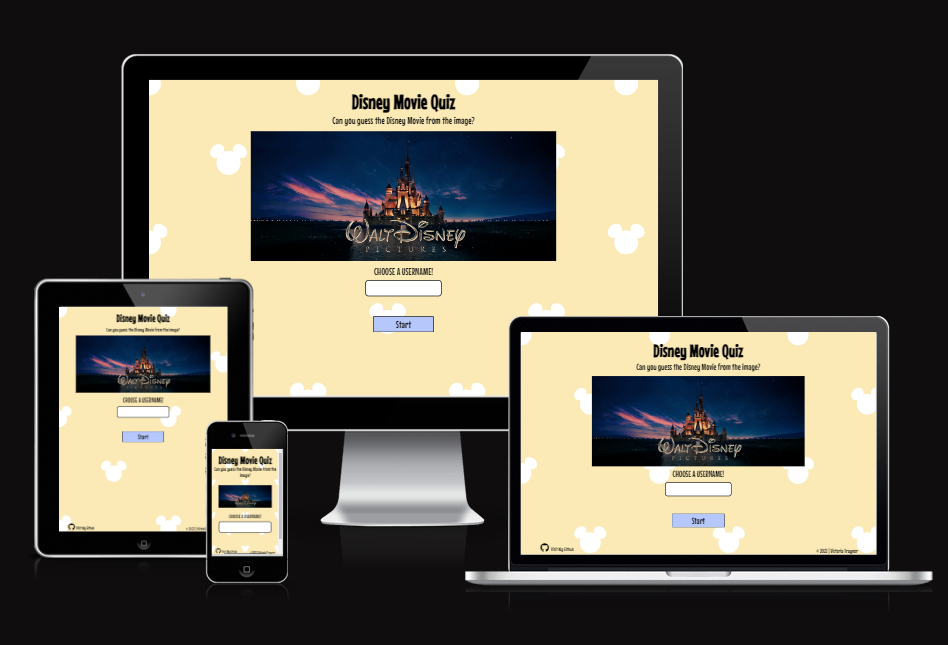
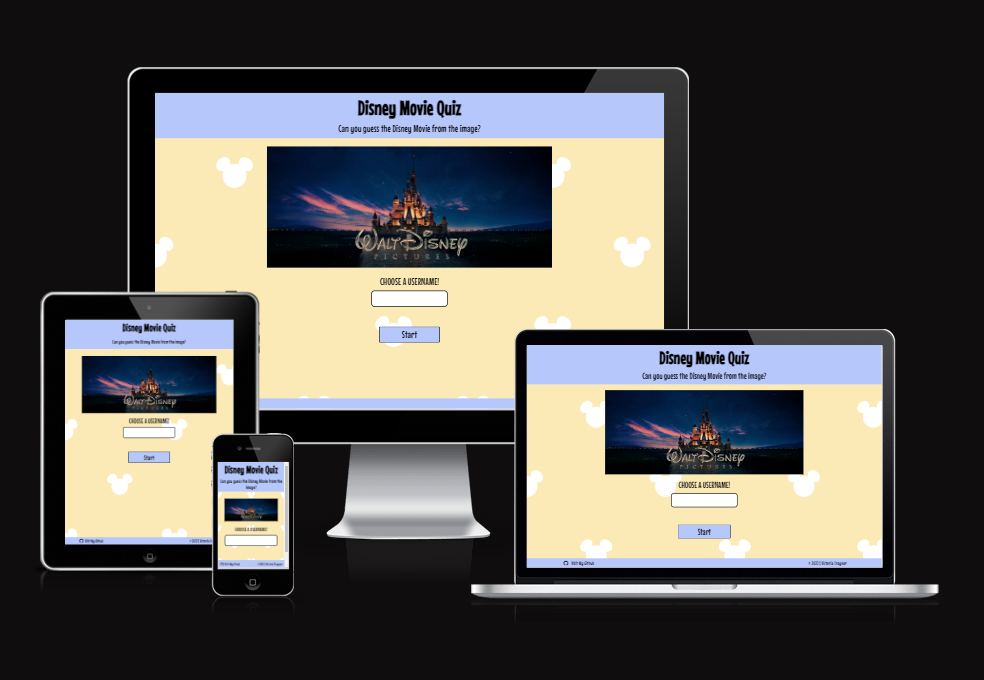
change H1 and P styles on smallest screens

Changed region(s): [[0.0306, 0.062, 1.0, 0.9302]]

diff --git a/assets/css/styles.css b/assets/css/styles.css
@@ -307,7 +307,7 @@ footer {
     }
 
     header h1 {
-        font-size: 3rem;
+        font-size: 2.5rem;
     }
 
     header p {
@@ -316,7 +316,7 @@ footer {
     }
 
     #logo {
-        margin: 1em 0;
+        margin-bottom: 1em;
         width: 100%;
     }
 
